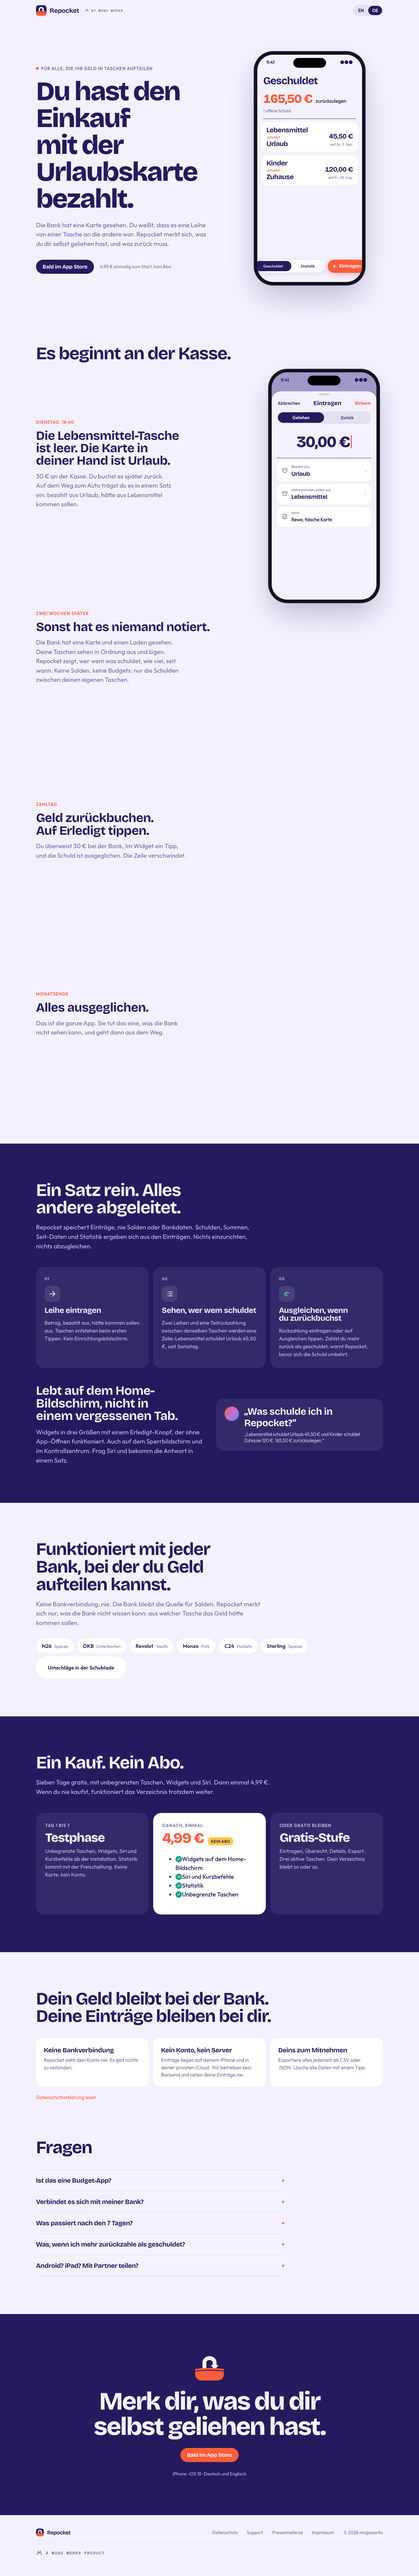
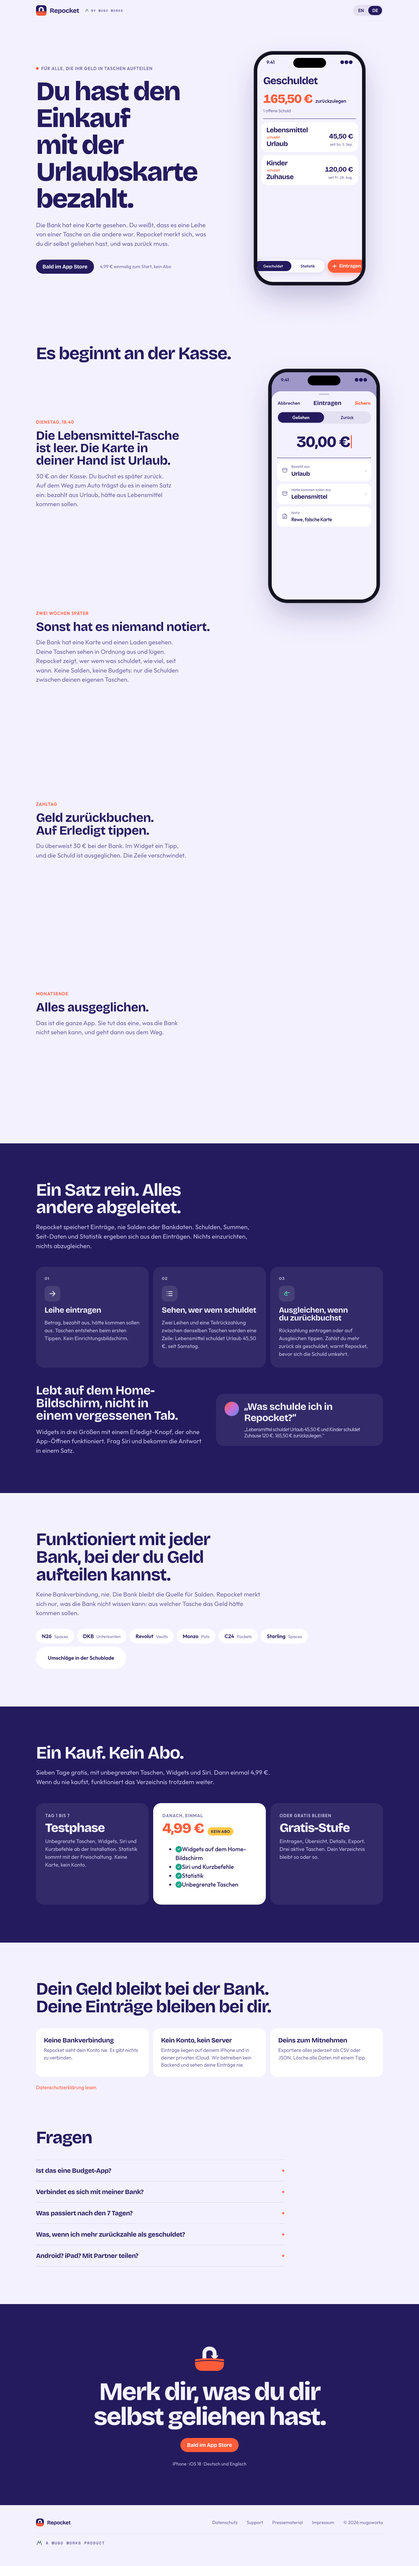
fix(landing): drop the Lock Screen and Control Center claim [repocket-site-n0m]
Bead: repocket-site-n0m

diff --git a/index.html b/index.html
@@ -188,7 +188,7 @@ footer{padding:40px 0 60px;border-top:1px solid rgba(36,27,94,.1);font-size:14px
   <div class="step reveal"><span class="n">03</span><div class="ic"><svg width="24" height="24" viewBox="0 0 24 24" fill="none" stroke="#4FD1A5" stroke-width="2.2" stroke-linecap="round" stroke-linejoin="round"><path d="M20 9H9a4 4 0 0 0 0 8h5M12 5L8 9l4 4"/></svg></div><h3><span data-l="en">Settle when you move it back</span><span data-l="de">Ausgleichen, wenn du zurückbuchst</span></h3><p><span data-l="en">Log the return, or tap Mark settled. Return more than you owe and Repocket warns you before the debt flips.</span><span data-l="de">Rückzahlung eintragen oder auf Ausgleichen tippen. Zahlst du mehr zurück als geschuldet, warnt Repocket, bevor sich die Schuld umkehrt.</span></p></div>
  </div>
  <div class="os">
-  <div class="reveal"><h3 style="font-size:clamp(28px,3vw,40px)"><span data-l="en">Lives on the home screen, not in a tab you forget.</span><span data-l="de">Lebt auf dem Home-Bildschirm, nicht in einem vergessenen Tab.</span></h3><p class="lead" style="margin-top:16px"><span data-l="en">Widgets in three sizes with a Settled button that works without opening the app. Lock Screen and Control Center too. Ask Siri and get an answer in one sentence.</span><span data-l="de">Widgets in drei Größen mit einem Erledigt-Knopf, der ohne App-Öffnen funktioniert. Auch auf dem Sperrbildschirm und im Kontrollzentrum. Frag Siri und bekomm die Antwort in einem Satz.</span></p></div>
+  <div class="reveal"><h3 style="font-size:clamp(28px,3vw,40px)"><span data-l="en">Lives on the home screen, not in a tab you forget.</span><span data-l="de">Lebt auf dem Home-Bildschirm, nicht in einem vergessenen Tab.</span></h3><p class="lead" style="margin-top:16px"><span data-l="en">Widgets in three sizes with a Settled button that works without opening the app. Ask Siri and get an answer in one sentence.</span><span data-l="de">Widgets in drei Größen mit einem Erledigt-Knopf, der ohne App-Öffnen funktioniert. Frag Siri und bekomm die Antwort in einem Satz.</span></p></div>
   <div class="siri reveal"><i></i><div><span data-l="en">“What do I owe in Repocket?”</span><span data-l="de">„Was schulde ich in Repocket?“</span><small><span data-l="en">“Groceries owes Vacation €45.50 and Kids owes Home €120. €165.50 to return.”</span><span data-l="de">„Lebensmittel schuldet Urlaub 45,50 € und Kinder schuldet Zuhause 120 €. 165,50 € zurückzulegen.“</span></small></div></div>
  </div>
 </div></section>
